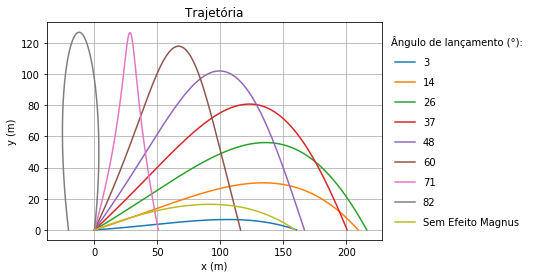
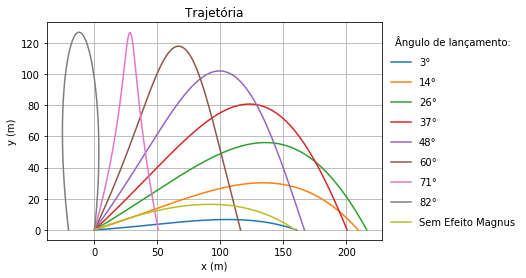
.

diff --git a/Código - gráficos.py b/Código - gráficos.py
@@ -127,6 +127,7 @@ condicoes_iniciais = [0, 0, v*cos(theta*pi/180), v*sin(theta*pi/180)]
 solucao = odeint(eq_dif, condicoes_iniciais, lista_tempo) # com efeito Magnus e Arrasto
 solucao2 = odeint(eq_dif2, condicoes_iniciais, lista_tempo) # somente c om Arrasto
 
+unidade = ['°']
 # Solucoes
 for i in range(8):
     theta = 3 + 11.3*i
@@ -136,7 +137,7 @@ for i in range(8):
     y = solucao[:,1]
     vx = solucao[:,2]
     vy = solucao[:,3]
-    plt.plot(x, y, label = '{:.0f}'.format(theta)) 
+    plt.plot(x, y, label = '{:.0f}{:.1}'.format(theta, unidade[0])) 
 
 x1 = solucao2[:,0]
 y1 = solucao2[:,1]
@@ -150,7 +151,7 @@ plt.xlabel("x (m)")
 plt.ylabel("y (m)")
 #plt.axis([0,250,0,70])
 plt.grid(True)
-plt.legend(loc='center left', bbox_to_anchor=(1, 0.5), scatterpoints=1, frameon=False, labelspacing=1, title='Ângulo de lançamento (°):')
+plt.legend(loc='center left', bbox_to_anchor=(1, 0.5), scatterpoints=1, frameon=False, labelspacing=1, title='Ângulo de lançamento:')
 #plt.legend(scatterpoints=1, frameon=False, labelspacing=1, title='Condutividade térmica:')
 plt.show()
 
